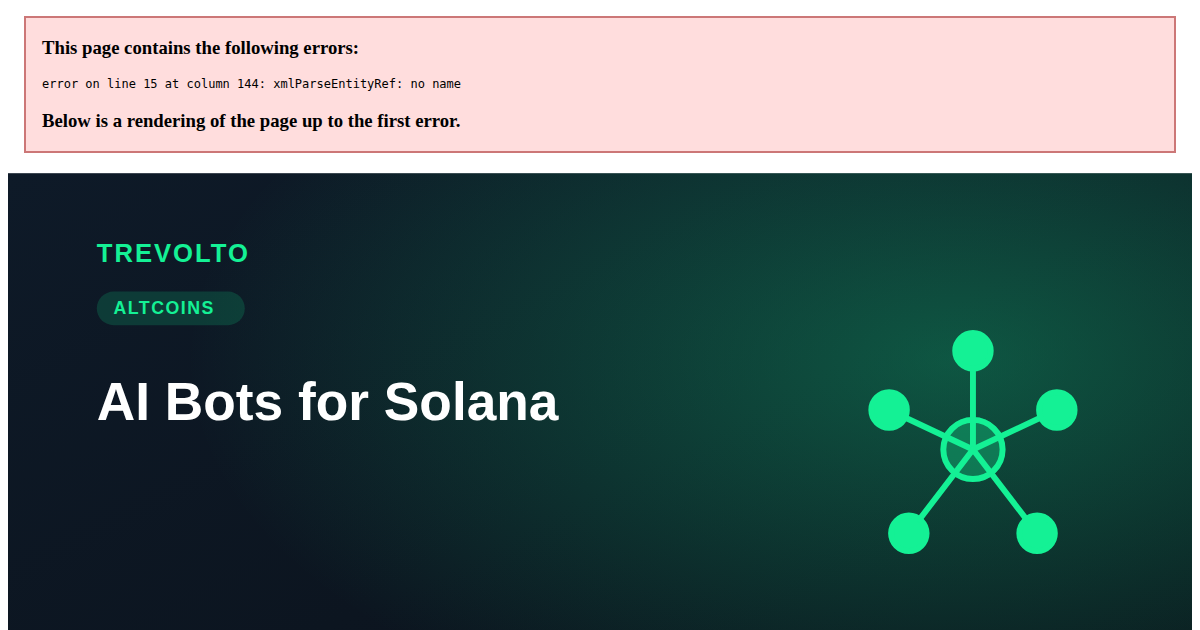
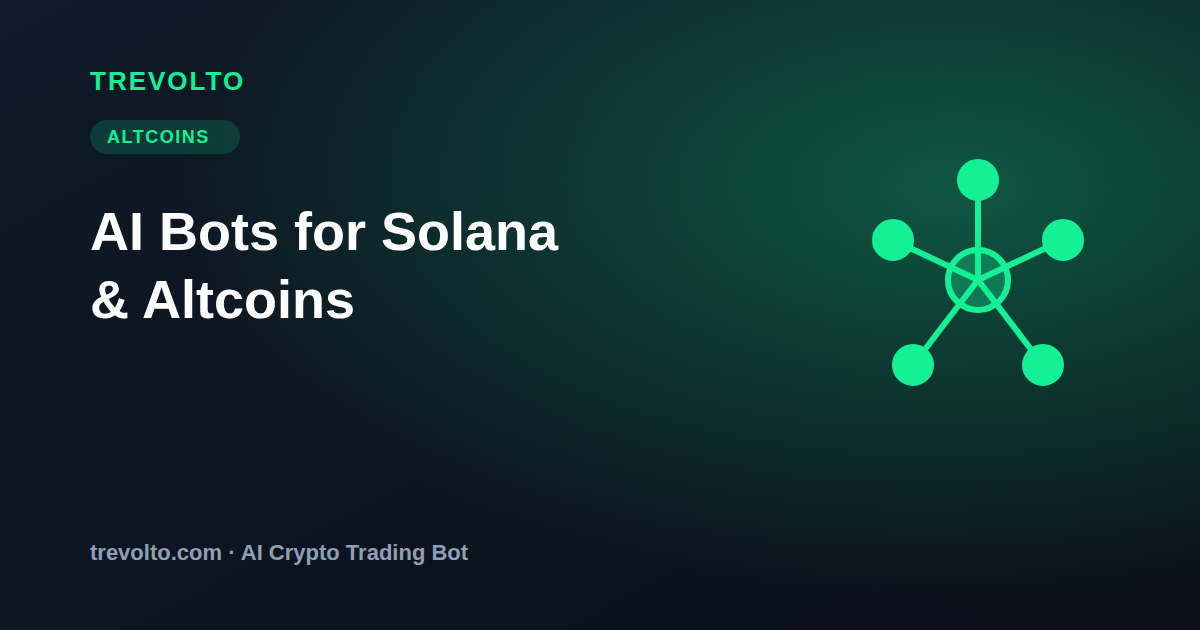
Blog covers: cache-bust so unique art loads + fix Solana cover XML
- The unique per-article covers were already on disk, but cover <img src> had
  no cache-buster, so browsers/Hostinger kept serving the old cached candlestick
  versions. Added ?v=2 to all 33 cover references so the new art loads.
- Fixed the Solana cover: an unescaped & in the title broke the SVG XML, so it
  rendered as alt text. Escaped it and re-rasterised the PNG.

diff --git a/site.trevolto/blog.html b/site.trevolto/blog.html
@@ -88,42 +88,42 @@
       <h2 class="blog-grid__title">Latest Guides &amp; Articles</h2>
       <div class="blog-grid">
         <article class="blog-card">
-          <img class="blog-card__cover" src="assets/blog/can-ai-predict-crypto-prices.svg" alt="Can AI Predict Crypto Prices? What ChatGPT &amp; LLMs Really Do" loading="lazy" />
+          <img class="blog-card__cover" src="assets/blog/can-ai-predict-crypto-prices.svg?v=2" alt="Can AI Predict Crypto Prices? What ChatGPT &amp; LLMs Really Do" loading="lazy" />
           <span class="blog-card__tag">AI Insights</span>
           <h3>Can AI Predict Crypto Prices? What ChatGPT &amp; LLMs Really Do</h3>
           <p>What AI and large language models genuinely do for trading — and the price-prediction myth, busted.</p>
           <a class="blog-card__link" href="/blog/can-ai-predict-crypto-prices">Read article &rarr;</a>
         </article>
         <article class="blog-card">
-          <img class="blog-card__cover" src="assets/blog/best-crypto-exchanges-for-trading-bots.svg" alt="Best Crypto Exchanges for Trading Bots: Binance vs Bybit vs OKX" loading="lazy" />
+          <img class="blog-card__cover" src="assets/blog/best-crypto-exchanges-for-trading-bots.svg?v=2" alt="Best Crypto Exchanges for Trading Bots: Binance vs Bybit vs OKX" loading="lazy" />
           <span class="blog-card__tag">Exchanges</span>
           <h3>Best Crypto Exchanges for Trading Bots: Binance vs Bybit vs OKX</h3>
           <p>API quality, fees, liquidity and rate limits compared — how to pick the right venue for your bot.</p>
           <a class="blog-card__link" href="/blog/best-crypto-exchanges-for-trading-bots">Read article &rarr;</a>
         </article>
         <article class="blog-card">
-          <img class="blog-card__cover" src="assets/blog/how-to-backtest-crypto-trading-bot.svg" alt="How to Backtest a Crypto Trading Bot: Step-by-Step Guide" loading="lazy" />
+          <img class="blog-card__cover" src="assets/blog/how-to-backtest-crypto-trading-bot.svg?v=2" alt="How to Backtest a Crypto Trading Bot: Step-by-Step Guide" loading="lazy" />
           <span class="blog-card__tag">How-To</span>
           <h3>How to Backtest a Crypto Trading Bot: Step-by-Step Guide</h3>
           <p>Test a strategy on historical data, read the metrics honestly, and avoid overfitting before going live.</p>
           <a class="blog-card__link" href="/blog/how-to-backtest-crypto-trading-bot">Read article &rarr;</a>
         </article>
         <article class="blog-card">
-          <img class="blog-card__cover" src="assets/blog/crypto-trading-bot-taxes.svg" alt="Crypto Trading Bot Taxes Explained (2026)" loading="lazy" />
+          <img class="blog-card__cover" src="assets/blog/crypto-trading-bot-taxes.svg?v=2" alt="Crypto Trading Bot Taxes Explained (2026)" loading="lazy" />
           <span class="blog-card__tag">Tax Guide</span>
           <h3>Crypto Trading Bot Taxes Explained (2026)</h3>
           <p>Why every bot trade can be a taxable event, plus records, gains and the tools that keep filing sane.</p>
           <a class="blog-card__link" href="/blog/crypto-trading-bot-taxes">Read article &rarr;</a>
         </article>
         <article class="blog-card">
-          <img class="blog-card__cover" src="assets/blog/ai-trading-bots-for-solana-altcoins.svg" alt="AI Trading Bots for Solana &amp; Altcoins" loading="lazy" />
+          <img class="blog-card__cover" src="assets/blog/ai-trading-bots-for-solana-altcoins.svg?v=2" alt="AI Trading Bots for Solana &amp; Altcoins" loading="lazy" />
           <span class="blog-card__tag">Altcoins</span>
           <h3>AI Trading Bots for Solana &amp; Altcoins</h3>
           <p>Trading beyond Bitcoin: the volatility, liquidity and guardrails behind disciplined altcoin automation.</p>
           <a class="blog-card__link" href="/blog/ai-trading-bots-for-solana-altcoins">Read article &rarr;</a>
         </article>
         <article class="blog-card">
-          <img class="blog-card__cover" src="assets/blog/what-is-an-ai-trading-bot.svg" alt="What Is an AI Trading Bot? The Beginner's Guide for 2026" loading="lazy" />
+          <img class="blog-card__cover" src="assets/blog/what-is-an-ai-trading-bot.svg?v=2" alt="What Is an AI Trading Bot? The Beginner's Guide for 2026" loading="lazy" />
           <span class="blog-card__tag">Beginner Guide</span>
           <h3>What Is an AI Trading Bot? The Beginner's Guide for 2026</h3>
           <p>What AI bots actually do, how they differ from regular bots, and who they're suited for.</p>
@@ -131,7 +131,7 @@
         </article>
 
         <article class="blog-card">
-          <img class="blog-card__cover" src="assets/blog/ai-vs-manual-trading.svg" alt="AI Trading Bot vs. Manual Trading: Which Wins in 2026?" loading="lazy" />
+          <img class="blog-card__cover" src="assets/blog/ai-vs-manual-trading.svg?v=2" alt="AI Trading Bot vs. Manual Trading: Which Wins in 2026?" loading="lazy" />
           <span class="blog-card__tag">Comparison</span>
           <h3>AI Trading Bot vs. Manual Trading: Which Wins in 2026?</h3>
           <p>Automated vs. manual trading compared on speed, emotion, edge cases, and where humans still win.</p>
@@ -139,7 +139,7 @@
         </article>
 
         <article class="blog-card">
-          <img class="blog-card__cover" src="assets/blog/setup-ai-trading-bot-10-minutes.svg" alt="How to Set Up Your First AI Trading Bot in 10 Minutes" loading="lazy" />
+          <img class="blog-card__cover" src="assets/blog/setup-ai-trading-bot-10-minutes.svg?v=2" alt="How to Set Up Your First AI Trading Bot in 10 Minutes" loading="lazy" />
           <span class="blog-card__tag">How-To</span>
           <h3>How to Set Up Your First AI Trading Bot in 10 Minutes</h3>
           <p>A step-by-step setup walkthrough covering API keys, strategy presets, and dashboard config.</p>
@@ -147,7 +147,7 @@
         </article>
 
         <article class="blog-card">
-          <img class="blog-card__cover" src="assets/blog/top-10-ai-trading-bots-2026.svg" alt="Top 10 AI Trading Bots for Crypto and Forex in 2026" loading="lazy" />
+          <img class="blog-card__cover" src="assets/blog/top-10-ai-trading-bots-2026.svg?v=2" alt="Top 10 AI Trading Bots for Crypto and Forex in 2026" loading="lazy" />
           <span class="blog-card__tag">Reviews</span>
           <h3>Top 10 AI Trading Bots for Crypto and Forex in 2026</h3>
           <p>Ten bots ranked and reviewed — features, pricing, custody models, and best use cases.</p>
@@ -155,7 +155,7 @@
         </article>
 
         <article class="blog-card">
-          <img class="blog-card__cover" src="assets/blog/are-ai-trading-bots-safe.svg" alt="Are AI Trading Bots Safe? The Truth About API Keys, Custody & Risk" loading="lazy" />
+          <img class="blog-card__cover" src="assets/blog/are-ai-trading-bots-safe.svg?v=2" alt="Are AI Trading Bots Safe? The Truth About API Keys, Custody & Risk" loading="lazy" />
           <span class="blog-card__tag">Safety</span>
           <h3>Are AI Trading Bots Safe? The Truth About API Keys, Custody &amp; Risk</h3>
           <p>How API keys work, what bots can and can't do, and the security measures that protect your account.</p>
@@ -163,7 +163,7 @@
         </article>
 
         <article class="blog-card">
-          <img class="blog-card__cover" src="assets/blog/bitcoin-bot-strategies-explained.svg" alt="Bitcoin Trading Bot Strategies Explained: DCA, Grid & AI Signals" loading="lazy" />
+          <img class="blog-card__cover" src="assets/blog/bitcoin-bot-strategies-explained.svg?v=2" alt="Bitcoin Trading Bot Strategies Explained: DCA, Grid & AI Signals" loading="lazy" />
           <span class="blog-card__tag">Strategy</span>
           <h3>Bitcoin Trading Bot Strategies Explained: DCA, Grid &amp; AI Signals</h3>
           <p>Three core retail bot strategies broken down — including when each one works and when it fails.</p>
@@ -171,7 +171,7 @@
         </article>
 
         <article class="blog-card">
-          <img class="blog-card__cover" src="assets/blog/can-ai-bots-make-you-rich.svg" alt="Can AI Trading Bots Make You Rich? Realistic Expectations for 2026" loading="lazy" />
+          <img class="blog-card__cover" src="assets/blog/can-ai-bots-make-you-rich.svg?v=2" alt="Can AI Trading Bots Make You Rich? Realistic Expectations for 2026" loading="lazy" />
           <span class="blog-card__tag">Realistic Expectations</span>
           <h3>Can AI Trading Bots Make You Rich? Realistic Expectations for 2026</h3>
           <p>An honest look at what bot returns actually look like and how to set achievable targets.</p>
@@ -179,7 +179,7 @@
         </article>
 
         <article class="blog-card">
-          <img class="blog-card__cover" src="assets/blog/ai-bot-for-forex.svg" alt="AI Trading Bot for Forex: Does It Actually Work?" loading="lazy" />
+          <img class="blog-card__cover" src="assets/blog/ai-bot-for-forex.svg?v=2" alt="AI Trading Bot for Forex: Does It Actually Work?" loading="lazy" />
           <span class="blog-card__tag">Forex</span>
           <h3>AI Trading Bot for Forex: Does It Actually Work?</h3>
           <p>How AI bots adapt to forex markets — and the real limitations retail traders run into.</p>
@@ -187,7 +187,7 @@
         </article>
 
         <article class="blog-card">
-          <img class="blog-card__cover" src="assets/blog/how-to-choose-ai-trading-bot.svg" alt="How to Choose the Best AI Trading Bot: A 7-Point Checklist" loading="lazy" />
+          <img class="blog-card__cover" src="assets/blog/how-to-choose-ai-trading-bot.svg?v=2" alt="How to Choose the Best AI Trading Bot: A 7-Point Checklist" loading="lazy" />
           <span class="blog-card__tag">Buyer's Guide</span>
           <h3>How to Choose the Best AI Trading Bot: A 7-Point Checklist</h3>
           <p>Seven criteria that actually matter when picking a bot — and five marketing claims to ignore.</p>
@@ -195,7 +195,7 @@
         </article>
 
         <article class="blog-card">
-          <img class="blog-card__cover" src="assets/blog/crypto-trading-mistakes-bots-fix.svg" alt="7 Crypto Trading Mistakes AI Bots Help You Avoid" loading="lazy" />
+          <img class="blog-card__cover" src="assets/blog/crypto-trading-mistakes-bots-fix.svg?v=2" alt="7 Crypto Trading Mistakes AI Bots Help You Avoid" loading="lazy" />
           <span class="blog-card__tag">Tips</span>
           <h3>7 Crypto Trading Mistakes AI Bots Help You Avoid</h3>
           <p>Common mistakes retail traders make — and how a well-configured bot helps you sidestep them.</p>
@@ -206,21 +206,21 @@
       <h2 class="blog-grid__title" style="margin-top:48px;">Compare Trevolto</h2>
       <div class="blog-grid">
         <article class="blog-card">
-          <img class="blog-card__cover" src="assets/blog/trevolto-vs-3commas.svg" alt="Trevolto vs 3Commas" loading="lazy" />
+          <img class="blog-card__cover" src="assets/blog/trevolto-vs-3commas.svg?v=2" alt="Trevolto vs 3Commas" loading="lazy" />
           <span class="blog-card__tag">Comparison</span>
           <h3>Trevolto vs 3Commas</h3>
           <p>One-time price with a proven strategy built in, vs a monthly subscription toolkit you configure yourself.</p>
           <a class="blog-card__link" href="/trevolto-vs-3commas">Compare →</a>
         </article>
         <article class="blog-card">
-          <img class="blog-card__cover" src="assets/blog/trevolto-vs-pionex.svg" alt="Trevolto vs Pionex" loading="lazy" />
+          <img class="blog-card__cover" src="assets/blog/trevolto-vs-pionex.svg?v=2" alt="Trevolto vs Pionex" loading="lazy" />
           <span class="blog-card__tag">Comparison</span>
           <h3>Trevolto vs Pionex</h3>
           <p>Keep funds on your own exchange with a done-for-you strategy, vs free built-in bots on Pionex's platform.</p>
           <a class="blog-card__link" href="/trevolto-vs-pionex">Compare →</a>
         </article>
         <article class="blog-card">
-          <img class="blog-card__cover" src="assets/blog/trevolto-vs-cryptohopper.svg" alt="Trevolto vs Cryptohopper" loading="lazy" />
+          <img class="blog-card__cover" src="assets/blog/trevolto-vs-cryptohopper.svg?v=2" alt="Trevolto vs Cryptohopper" loading="lazy" />
           <span class="blog-card__tag">Comparison</span>
           <h3>Trevolto vs Cryptohopper</h3>
           <p>A single proven strategy built in, vs a subscription platform with a strategy marketplace to manage.</p>

diff --git a/site.trevolto/blog/ai-trading-bots-for-solana-altcoins.html b/site.trevolto/blog/ai-trading-bots-for-solana-altcoins.html
@@ -106,7 +106,7 @@
     </div>
   </div>
 
-  <div class="article-cover-wrap"><img class="article-cover" src="../assets/blog/ai-trading-bots-for-solana-altcoins.svg" alt="AI Bots for Solana &amp; Altcoins — Trevolto AI Crypto Trading Bot" width="1200" height="630" /></div>
+  <div class="article-cover-wrap"><img class="article-cover" src="../assets/blog/ai-trading-bots-for-solana-altcoins.svg?v=2" alt="AI Bots for Solana &amp; Altcoins — Trevolto AI Crypto Trading Bot" width="1200" height="630" /></div>
 
   <main>
     <article class="article-body">

diff --git a/site.trevolto/blog/best-crypto-exchanges-for-trading-bots.html b/site.trevolto/blog/best-crypto-exchanges-for-trading-bots.html
@@ -106,7 +106,7 @@
     </div>
   </div>
 
-  <div class="article-cover-wrap"><img class="article-cover" src="../assets/blog/best-crypto-exchanges-for-trading-bots.svg" alt="Best Exchanges for Bots — Trevolto AI Crypto Trading Bot" width="1200" height="630" /></div>
+  <div class="article-cover-wrap"><img class="article-cover" src="../assets/blog/best-crypto-exchanges-for-trading-bots.svg?v=2" alt="Best Exchanges for Bots — Trevolto AI Crypto Trading Bot" width="1200" height="630" /></div>
 
   <main>
     <article class="article-body">

diff --git a/site.trevolto/blog/bitcoin-bot-strategies-explained.html b/site.trevolto/blog/bitcoin-bot-strategies-explained.html
@@ -109,7 +109,7 @@
     </div>
   </div>
 
-  <div class="article-cover-wrap"><img class="article-cover" src="../assets/blog/bitcoin-bot-strategies-explained.svg" alt="Bitcoin Trading Bot Strategies Explained: DCA, Grid & AI Signals" width="1200" height="630" /></div>
+  <div class="article-cover-wrap"><img class="article-cover" src="../assets/blog/bitcoin-bot-strategies-explained.svg?v=2" alt="Bitcoin Trading Bot Strategies Explained: DCA, Grid & AI Signals" width="1200" height="630" /></div>
 
   <main>
     <article class="article-body">

diff --git a/site.trevolto/blog/can-ai-predict-crypto-prices.html b/site.trevolto/blog/can-ai-predict-crypto-prices.html
@@ -106,7 +106,7 @@
     </div>
   </div>
 
-  <div class="article-cover-wrap"><img class="article-cover" src="../assets/blog/can-ai-predict-crypto-prices.svg" alt="Can AI Predict Crypto Prices? — Trevolto AI Crypto Trading Bot" width="1200" height="630" /></div>
+  <div class="article-cover-wrap"><img class="article-cover" src="../assets/blog/can-ai-predict-crypto-prices.svg?v=2" alt="Can AI Predict Crypto Prices? — Trevolto AI Crypto Trading Bot" width="1200" height="630" /></div>
 
   <main>
     <article class="article-body">

diff --git a/site.trevolto/blog/can-ai-bots-make-you-rich.html b/site.trevolto/blog/can-ai-bots-make-you-rich.html
@@ -101,7 +101,7 @@
     </div>
   </div>
 
-  <div class="article-cover-wrap"><img class="article-cover" src="../assets/blog/can-ai-bots-make-you-rich.svg" alt="Can AI Trading Bots Make You Rich? Realistic Expectations for 2026" width="1200" height="630" /></div>
+  <div class="article-cover-wrap"><img class="article-cover" src="../assets/blog/can-ai-bots-make-you-rich.svg?v=2" alt="Can AI Trading Bots Make You Rich? Realistic Expectations for 2026" width="1200" height="630" /></div>
 
   <main>
     <article class="article-body">

diff --git a/site.trevolto/blog/are-ai-trading-bots-safe.html b/site.trevolto/blog/are-ai-trading-bots-safe.html
@@ -103,7 +103,7 @@
     </div>
   </div>
 
-  <div class="article-cover-wrap"><img class="article-cover" src="../assets/blog/are-ai-trading-bots-safe.svg" alt="Are AI Trading Bots Safe? The Truth About API Keys, Custody & Risk" width="1200" height="630" /></div>
+  <div class="article-cover-wrap"><img class="article-cover" src="../assets/blog/are-ai-trading-bots-safe.svg?v=2" alt="Are AI Trading Bots Safe? The Truth About API Keys, Custody & Risk" width="1200" height="630" /></div>
 
   <main>
     <article class="article-body">

diff --git a/site.trevolto/blog/how-to-backtest-crypto-trading-bot.html b/site.trevolto/blog/how-to-backtest-crypto-trading-bot.html
@@ -106,7 +106,7 @@
     </div>
   </div>
 
-  <div class="article-cover-wrap"><img class="article-cover" src="../assets/blog/how-to-backtest-crypto-trading-bot.svg" alt="How to Backtest a Bot — Trevolto AI Crypto Trading Bot" width="1200" height="630" /></div>
+  <div class="article-cover-wrap"><img class="article-cover" src="../assets/blog/how-to-backtest-crypto-trading-bot.svg?v=2" alt="How to Backtest a Bot — Trevolto AI Crypto Trading Bot" width="1200" height="630" /></div>
 
   <main>
     <article class="article-body">

diff --git a/site.trevolto/blog/how-to-choose-ai-trading-bot.html b/site.trevolto/blog/how-to-choose-ai-trading-bot.html
@@ -107,7 +107,7 @@
     </div>
   </div>
 
-  <div class="article-cover-wrap"><img class="article-cover" src="../assets/blog/how-to-choose-ai-trading-bot.svg" alt="How to Choose the Best AI Trading Bot: A 7-Point Checklist" width="1200" height="630" /></div>
+  <div class="article-cover-wrap"><img class="article-cover" src="../assets/blog/how-to-choose-ai-trading-bot.svg?v=2" alt="How to Choose the Best AI Trading Bot: A 7-Point Checklist" width="1200" height="630" /></div>
 
   <main>
     <article class="article-body">

diff --git a/site.trevolto/blog/setup-ai-trading-bot-10-minutes.html b/site.trevolto/blog/setup-ai-trading-bot-10-minutes.html
@@ -109,7 +109,7 @@
     </div>
   </div>
 
-  <div class="article-cover-wrap"><img class="article-cover" src="../assets/blog/setup-ai-trading-bot-10-minutes.svg" alt="How to Set Up Your First AI Trading Bot in 10 Minutes" width="1200" height="630" /></div>
+  <div class="article-cover-wrap"><img class="article-cover" src="../assets/blog/setup-ai-trading-bot-10-minutes.svg?v=2" alt="How to Set Up Your First AI Trading Bot in 10 Minutes" width="1200" height="630" /></div>
 
   <main>
     <article class="article-body">

diff --git a/site.trevolto/blog/crypto-trading-bot-taxes.html b/site.trevolto/blog/crypto-trading-bot-taxes.html
@@ -106,7 +106,7 @@
     </div>
   </div>
 
-  <div class="article-cover-wrap"><img class="article-cover" src="../assets/blog/crypto-trading-bot-taxes.svg" alt="Crypto Trading Bot Taxes — Trevolto AI Crypto Trading Bot" width="1200" height="630" /></div>
+  <div class="article-cover-wrap"><img class="article-cover" src="../assets/blog/crypto-trading-bot-taxes.svg?v=2" alt="Crypto Trading Bot Taxes — Trevolto AI Crypto Trading Bot" width="1200" height="630" /></div>
 
   <main>
     <article class="article-body">

diff --git a/site.trevolto/trevolto-vs-3commas.html b/site.trevolto/trevolto-vs-3commas.html
@@ -101,7 +101,7 @@
     </div>
   </div>
 
-  <div class="article-cover-wrap"><img class="article-cover" src="assets/blog/trevolto-vs-3commas.svg" alt="Trevolto vs 3Commas: Which AI Crypto Bot Is Right for You in 2026?" width="1200" height="630" /></div>
+  <div class="article-cover-wrap"><img class="article-cover" src="assets/blog/trevolto-vs-3commas.svg?v=2" alt="Trevolto vs 3Commas: Which AI Crypto Bot Is Right for You in 2026?" width="1200" height="630" /></div>
 
   <main>
     <article class="article-body">
